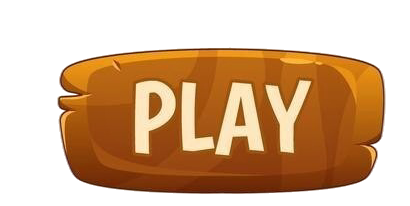
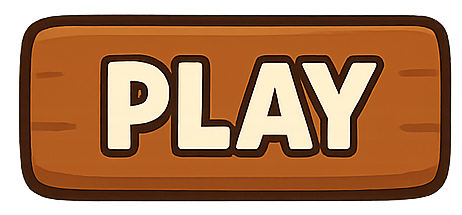
feat(gbv-game):  game over screen

diff --git a/src/main.js b/src/main.js
@@ -1,19 +1,19 @@
-import './style.css'
-import Phaser from 'phaser';
-import { preloadAssets as preloadAssetsForCantTalk } from './cantTalk/preloadAssets.js'; // Import the preload function
-import { preloadAssets as preloadAssetsForMainGame } from './mainGame/preloadAssets.js'; // Import the preload function
-import { preloadAssets as preloadAssetsForGameOver } from './gameOver/preloadAssets.js'; // Import the preload function
-import { preloadAssets as preloadAssetsForStartGameScreen } from './startGame/preloadAssets.js'; // Import the preload function
-import { create as createCantTalk } from './cantTalk/create.js'; // Import the create function
-import { create as createMainGame } from './mainGame/create.js'; // Import the create function
-import { create as createStartGameScreen } from './startGame/create.js'; // Import the create function
-import { create as createGameOverScreen } from './gameOver/create.js'; // Import the create function
-import { update as updateMainGame } from './mainGame/update.js';
+import "./style.css";
+import Phaser from "phaser";
+import { preloadAssets as preloadAssetsForCantTalk } from "./cantTalk/preloadAssets.js"; // Import the preload function
+import { preloadAssets as preloadAssetsForMainGame } from "./mainGame/preloadAssets.js"; // Import the preload function
+import { preloadAssets as preloadAssetsForGameOver } from "./gameOver/preloadAssets.js"; // Import the preload function
+import { preloadAssets as preloadAssetsForStartGameScreen } from "./startGame/preloadAssets.js"; // Import the preload function
+import { create as createCantTalk } from "./cantTalk/create.js"; // Import the create function
+import { create as createMainGame } from "./mainGame/create.js"; // Import the create function
+import { create as createStartGameScreen } from "./startGame/create.js"; // Import the create function
+import { create as createGameOverScreen } from "./gameOver/create.js"; // Import the create function
+import { update as updateMainGame } from "./mainGame/update.js";
 
 // Start Screen Scene
 class StartGame extends Phaser.Scene {
   constructor() {
-    super('StartGame');
+    super("StartGame");
   }
 
   preload() {
@@ -28,7 +28,7 @@ class StartGame extends Phaser.Scene {
 // Define the Main Game Scene
 class MainGame extends Phaser.Scene {
   constructor() {
-    super('MainGame'); // Key for this scene
+    super("MainGame"); // Key for this scene
   }
 
   preload() {
@@ -40,8 +40,9 @@ class MainGame extends Phaser.Scene {
 
     // Enable cursor keys, including SPACE
     gameSettings.cursors = this.input.keyboard.createCursorKeys();
-    gameSettings.keyEnter = this.input.keyboard.addKey(Phaser.Input.Keyboard.KeyCodes.ENTER);
-
+    gameSettings.keyEnter = this.input.keyboard.addKey(
+      Phaser.Input.Keyboard.KeyCodes.ENTER
+    );
   }
 
   update() {
@@ -51,7 +52,7 @@ class MainGame extends Phaser.Scene {
 
 class CantTalk extends Phaser.Scene {
   constructor() {
-    super('CantTalk'); // Key for this scene
+    super("CantTalk"); // Key for this scene
   }
 
   preload() {
@@ -64,7 +65,6 @@ class CantTalk extends Phaser.Scene {
     // // Enable cursor keys, including SPACE
     // gameSettings.cursors = this.input.keyboard.createCursorKeys();
     // gameSettings.keyEnter = this.input.keyboard.addKey(Phaser.Input.Keyboard.KeyCodes.ENTER);
-
   }
 
   update() {
@@ -75,7 +75,7 @@ class CantTalk extends Phaser.Scene {
 // Define the Game Over Scene
 class GameOver extends Phaser.Scene {
   constructor() {
-    super('GameOver'); // Key for this scene
+    super("GameOver"); // Key for this scene
   }
 
   preload() {
@@ -95,16 +95,16 @@ const config = {
     mode: Phaser.Scale.FIT,
     autoCenter: Phaser.Scale.CENTER_BOTH,
     width: window.innerWidth,
-    height: window.innerHeight
+    height: window.innerHeight,
   },
   physics: {
-    default: 'arcade',
+    default: "arcade",
     arcade: {
       gravity: { y: 0 },
-      debug: false
-    }
+      debug: false,
+    },
   },
-  scene: [StartGame, MainGame, GameOver, CantTalk] // Define multiple scenes
+  scene: [StartGame, MainGame, CantTalk, GameOver], // Define multiple scenes
 };
 
 const game = new Phaser.Game(config);
@@ -112,9 +112,9 @@ const game = new Phaser.Game(config);
 // Game settings object
 let gameSettings = {
   game: game,
-  supportiveButton:null,
-  UnSupportiveButton:null,
-  qBoard:null,
+  supportiveButton: null,
+  UnSupportiveButton: null,
+  qBoard: null,
   bg1: null,
   speed: 2,
   cursors: null,
@@ -126,19 +126,7 @@ let gameSettings = {
   reward: null,
   bird: null,
   birdFrame: 0,
-  birdFrames: ['bird_ready', 'bird_jump', 'bird_stand'],
+  birdFrames: ["bird_ready", "bird_jump", "bird_stand"],
   obstacles: null,
-  gameOver: false
-}
-
-
-
-
-
-
-
-
-
-
-
-
+  gameOver: false,
+};

diff --git a/src/gameOver/create.js b/src/gameOver/create.js
@@ -9,16 +9,16 @@ export const create = (instance, settings) => {
 
   const width = settings.game.config.width / 2;
   const height = settings.game.config.height / 2;
-  // Add the title text
-  instance.add
-    .text(width - 0.8 * width, height - 0.2 * height, "Game Over", textStyle)
-    .setDepth(1);
 
-  instance.add.sprite(width, height, "infoBoardGameOver").setScale(0.5);
+  instance.add
+    .sprite(width - 50, height - 200, "gameOverButton")
+    .setScale(0.3)
+    .setDepth(1)
+    .setOrigin(0, 0);
 
   // Add the "Start Game" button
   instance.restartButton = instance.add
-    .sprite(width - 0.1 * width, height  , "restartButton")
+    .sprite(width , height - 10 , "restartButton")
     .setScale(0.3)
     .setInteractive();
 
@@ -28,11 +28,8 @@ export const create = (instance, settings) => {
   });
   // Add the "Start Game" butto0
   instance.exitButton = instance.add
-    .sprite(
-      width - 0.1 * width, height + 0.2 * height,
-      "exitButton"
-    )
-    .setScale(0.3)
+    .sprite(width, height + 50, "exitButton")
+    .setScale(0.2)
     .setInteractive();
   instance.exitButton.on("pointerdown", () => {
     // Confirm with the user before closing

diff --git a/src/startGame/create.js b/src/startGame/create.js
@@ -9,25 +9,15 @@ export const create = (instance, settings) => {
 
   const width = settings.game.config.width / 2;
   const height = settings.game.config.height / 2;
-  // Add the title text
-  instance.add
-    .text(
-      width - 0.8 * width,
-      height - 0.2 * height,
-      "See IT, Stop IT",
-      textStyle
-    )
-    .setDepth(1);
-
-  instance.add.sprite(width, height, "infoBoard").setScale(0.5);
 
   // Add the "Start Game" button
   instance.startButton = instance.add
-    .sprite(width - 0.1 * width, height, "startButton")
+    .sprite(width - 0.1 * width, height , "startButton")
     .setScale(0.3)
     .setInteractive();
 
   instance.startButton.on("pointerdown", () => {
     instance.scene.start("MainGame"); // Transition to the main game scene
   });
+  
 };

diff --git a/src/gameOver/preloadAssets.js b/src/gameOver/preloadAssets.js
@@ -1,6 +1,6 @@
 export const preloadAssets = (instance) => {
     instance.load.image('gameOverBg', 'assets/startBg.png'); // Background image
-    instance.load.image('infoBoardGameOver', 'assets/infoBoard.png'); // Button image
     instance.load.image('restartButton', 'assets/continue.png'); // Button image
+    instance.load.image('gameOverButton', 'assets/gameOver.png'); // Button image
     instance.load.image('exitButton', 'assets/exit.png'); // Button image
 }

diff --git a/src/startGame/preloadAssets.js b/src/startGame/preloadAssets.js
@@ -1,5 +1,4 @@
 export const preloadAssets = (instance) => {
     instance.load.image('startBackground', 'assets/startBg.png'); // Background image
-    instance.load.image('infoBoard', 'assets/infoBoard.png'); // Button image
     instance.load.image('startButton', 'assets/play.png'); // Button image
 }
